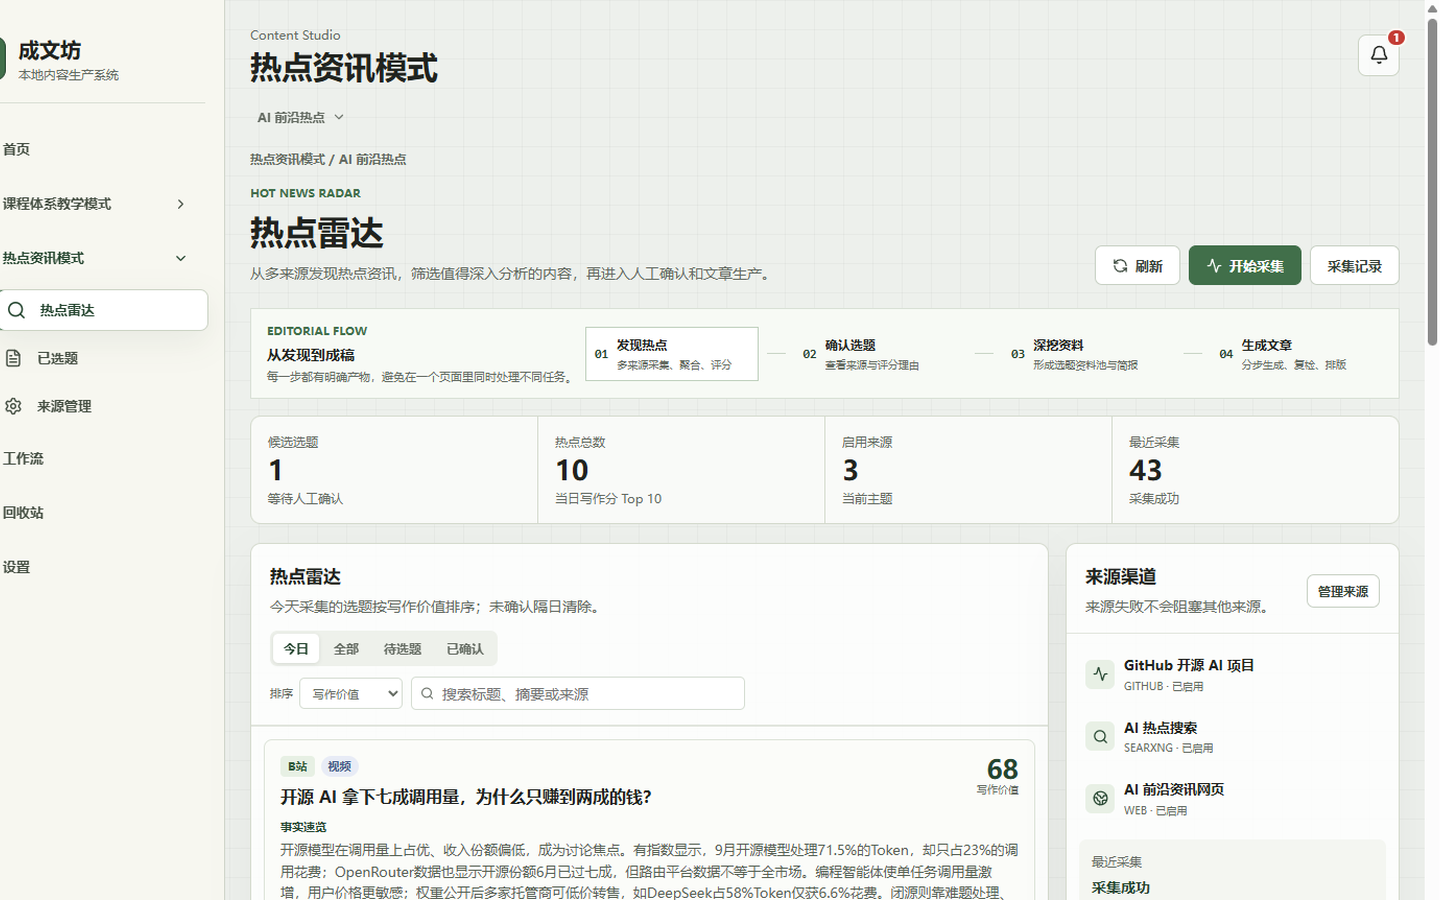
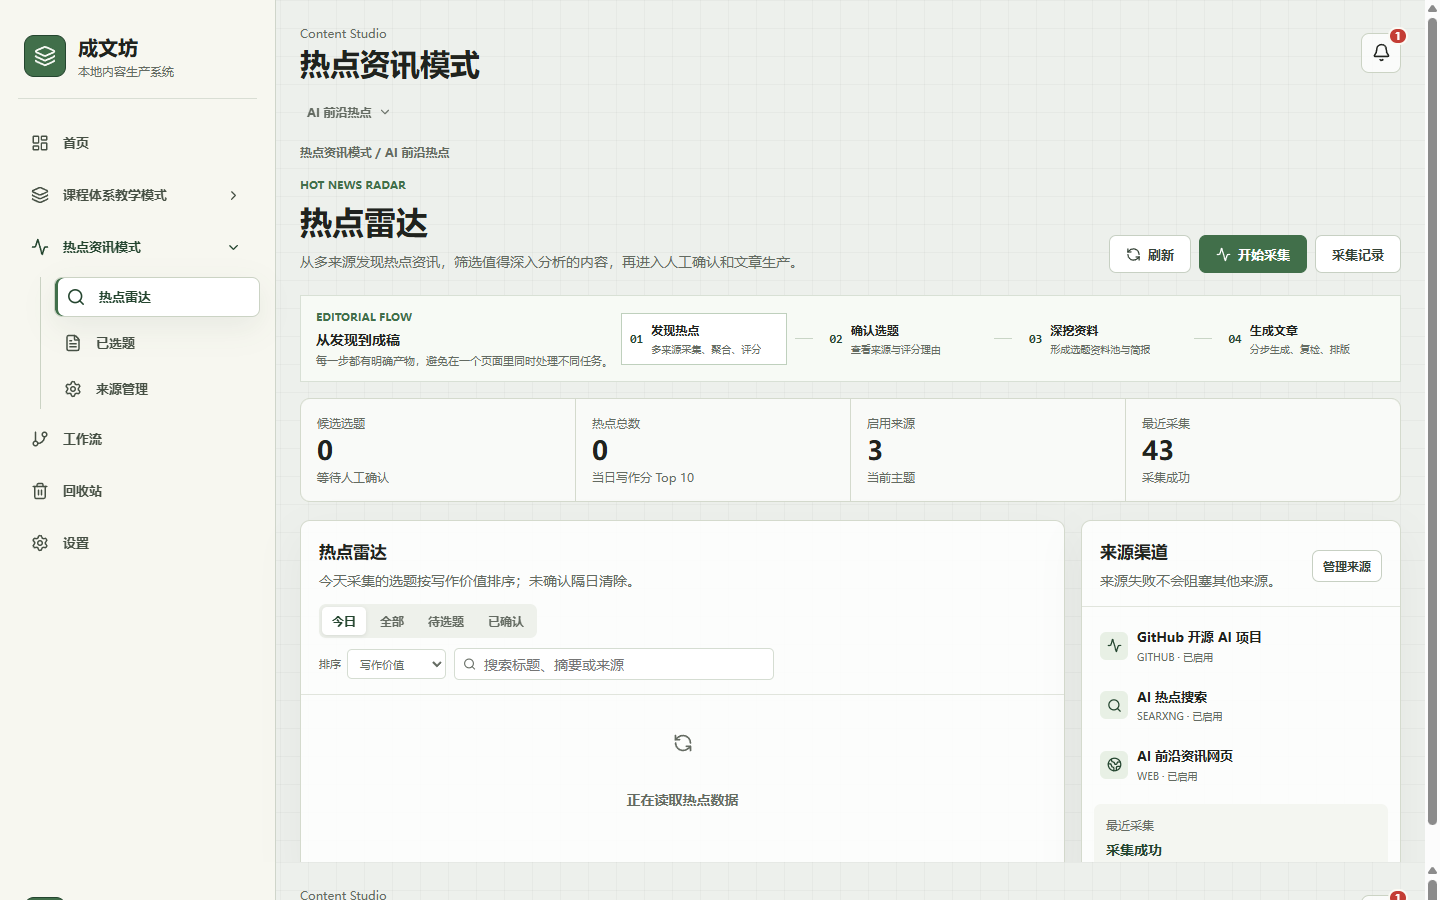
docs: re-capture README shots without cropping the sidebar
Switch normalize to contain-fit (no cover-crop) and capture via CDP at 1440x900 so the left nav stays intact.

diff --git a/scripts/oss/normalize-readme-screenshots.py b/scripts/oss/normalize-readme-screenshots.py
@@ -1,11 +1,10 @@
-"""Normalize README screenshots to identical canvas size (product viewport only)."""
+"""Normalize README screenshots to identical canvas size (never crop content)."""
 
 from __future__ import annotations
 
-import shutil
 from pathlib import Path
 
-from PIL import Image, ImageSequence
+from PIL import Image
 
 RAW = Path(r"C:\Users\嘉彬\AppData\Local\Temp\cursor\screenshots\_raw")
 OUT = Path("docs/screenshots")
@@ -14,18 +13,20 @@ W, H = 1440, 900
 BG = (247, 248, 246)
 
 
-def fit_canvas(im: Image.Image, width: int = W, height: int = H) -> Image.Image:
+def contain_canvas(im: Image.Image, width: int = W, height: int = H) -> Image.Image:
+    """Scale to fit inside canvas; pad with background. Never crop."""
     rgb = im.convert("RGB")
-    # Already exact? keep
     if rgb.size == (width, height):
         return rgb
-    # Cover-fit into canvas then center-crop (no letterbox bars)
-    scale = max(width / rgb.width, height / rgb.height)
-    nw, nh = max(1, int(rgb.width * scale)), max(1, int(rgb.height * scale))
+    scale = min(width / rgb.width, height / rgb.height)
+    nw = max(1, int(round(rgb.width * scale)))
+    nh = max(1, int(round(rgb.height * scale)))
     resized = rgb.resize((nw, nh), Image.Resampling.LANCZOS)
-    left = max(0, (nw - width) // 2)
-    top = max(0, (nh - height) // 2)
-    return resized.crop((left, top, left + width, top + height))
+    canvas = Image.new("RGB", (width, height), BG)
+    left = (width - nw) // 2
+    top = (height - nh) // 2
+    canvas.paste(resized, (left, top))
+    return canvas
 
 
 def save_png(src_name: str, dst_name: str) -> None:
@@ -33,7 +34,7 @@ def save_png(src_name: str, dst_name: str) -> None:
     if not src.exists():
         print(f"missing {src}")
         return
-    out = fit_canvas(Image.open(src))
+    out = contain_canvas(Image.open(src))
     dest = OUT / dst_name
     out.save(dest, "PNG", optimize=True)
     print(f"{dst_name}: {out.size} ({dest.stat().st_size // 1024} KB)")
@@ -50,7 +51,8 @@ def build_gif() -> None:
         if not path.exists():
             print(f"gif skip missing {path.name}")
             return
-        frames.append(fit_canvas(Image.open(path), 1200, 750))
+        # Same aspect as stills — avoid a second crop pass
+        frames.append(contain_canvas(Image.open(path), W, H))
     dest = OUT / "hotnews-walkthrough.gif"
     frames[0].save(
         dest,

diff --git a/scripts/oss/trim-screenshot-padding.py b/scripts/oss/trim-screenshot-padding.py
@@ -1,4 +1,9 @@
-"""Trim letterbox / near-uniform edge padding from README screenshots."""
+"""Trim letterbox padding from README screenshots — NEVER crop the left sidebar.
+
+Prefer capturing at the target viewport (1440×900) via CDP and running
+`normalize-readme-screenshots.py` (contain + pad). This trimmer only removes
+uniform padding on the top / right / bottom edges.
+"""
 
 from __future__ import annotations
 
@@ -9,7 +14,8 @@ from PIL import Image
 PAD = (244, 246, 245)
 TOL = 10
 DIR = Path("docs/screenshots")
-MAX_W = 1600
+# Keep at least this many pixels on the left so brand / nav stay intact
+MIN_LEFT_KEEP = 8
 
 
 def near(pixel: tuple[int, ...], target: tuple[int, int, int] = PAD, tol: int = TOL) -> bool:
@@ -32,6 +38,8 @@ def content_bbox(im: Image.Image) -> tuple[int, int, int, int]:
                 bottom = max(bottom, y)
     if not found:
         return (0, 0, width, height)
+    # Do not eat into the product chrome on the left
+    left = min(left, MIN_LEFT_KEEP)
     return (left, top, right + 1, bottom + 1)
 
 
@@ -39,12 +47,6 @@ def trim_file(path: Path) -> None:
     original = Image.open(path).convert("RGBA")
     box = content_bbox(original)
     cropped = original.crop(box)
-    if cropped.width > MAX_W:
-        ratio = MAX_W / cropped.width
-        cropped = cropped.resize(
-            (MAX_W, max(1, int(cropped.height * ratio))),
-            Image.Resampling.LANCZOS,
-        )
     cropped.convert("RGB").save(path, "PNG", optimize=True)
     print(f"{path.name}: {original.size} crop={box} -> {cropped.size}")
 
@@ -56,6 +58,7 @@ def main() -> None:
         "03-workflows.png",
         "04-settings-ai.png",
         "05-hotnews-radar.png",
+        "06-course-route.png",
     ]
     for name in names:
         path = DIR / name

diff --git a/scripts/oss/save-cdp-screenshot.py b/scripts/oss/save-cdp-screenshot.py
@@ -1,0 +1,42 @@
+"""Decode a Cursor browser CDP Page.captureScreenshot JSON dump to PNG."""
+
+from __future__ import annotations
+
+import base64
+import io
+import json
+import sys
+from pathlib import Path
+
+from PIL import Image
+
+
+def find_b64(obj: object) -> str | None:
+    if isinstance(obj, dict):
+        data = obj.get("data")
+        if isinstance(data, str) and len(data) > 1000:
+            return data
+        for value in obj.values():
+            found = find_b64(value)
+            if found:
+                return found
+    return None
+
+
+def main() -> None:
+    if len(sys.argv) != 3:
+        raise SystemExit("usage: save-cdp-screenshot.py <cdp-json> <out.png>")
+    src = Path(sys.argv[1])
+    dest = Path(sys.argv[2])
+    payload = json.loads(src.read_text(encoding="utf-8"))
+    b64 = find_b64(payload)
+    if not b64:
+        raise SystemExit(f"no screenshot data in {src}")
+    image = Image.open(io.BytesIO(base64.b64decode(b64))).convert("RGB")
+    dest.parent.mkdir(parents=True, exist_ok=True)
+    image.save(dest, "PNG", optimize=True)
+    print(f"{dest.name}: {image.size}")
+
+
+if __name__ == "__main__":
+    main()

diff --git a/CHANGELOG.md b/CHANGELOG.md
@@ -12,6 +12,7 @@ where releases are tagged.
 
 - README facade: real UI screenshots (1440×900), course-only quick start first, accurate module tree, optional hot-news deps called out.
 - README visuals: hero GIF + course-route under badges; populated radar as feature shot; theme/workflow/settings under details.
+- Re-capture README shots via CDP at 1440×900 (no cover-crop); keep full left sidebar; GIF same canvas as stills.
 - Document Spring Boot **3.3.5** pin and upgrade policy (root `pom.xml` `spring-boot.version`; patch vs minor rules).
 - Document CI gate: Actions runs Vitest + Maven unit tests; excludes `*IT` / fingerprint goldens (run IT locally with Docker).
 - Compose MySQL / app secrets come from `.env` (or `${VAR:-dev-default}`); no longer hardcode credentials as the only source.

diff --git a/docs/screenshots/README.md b/docs/screenshots/README.md
@@ -15,8 +15,9 @@ Do not commit shots that show real API keys or private manuscript bodies.
 
 ## Regenerating
 
-1. Run the app (Vite + API) with demo data.
-2. Capture at 1440×900 into a temp `_raw/` folder.
-3. `python scripts/oss/normalize-readme-screenshots.py`
+1. Run the app (Vite + API) with demo data. Private demo: Vite `5174` → API `8002`.
+2. Capture the **viewport** at 1440×900 via CDP `Page.captureScreenshot` (not a browser-chrome crop).
+3. Save into temp `_raw/`, then `python scripts/oss/normalize-readme-screenshots.py`
+   (contain + pad only — **never cover-crop**, or the left sidebar gets clipped).
 
-Optional trim helper for letterboxed stills: `scripts/oss/trim-screenshot-padding.py`.
+Optional edge trim: `scripts/oss/trim-screenshot-padding.py` (keeps left chrome).
